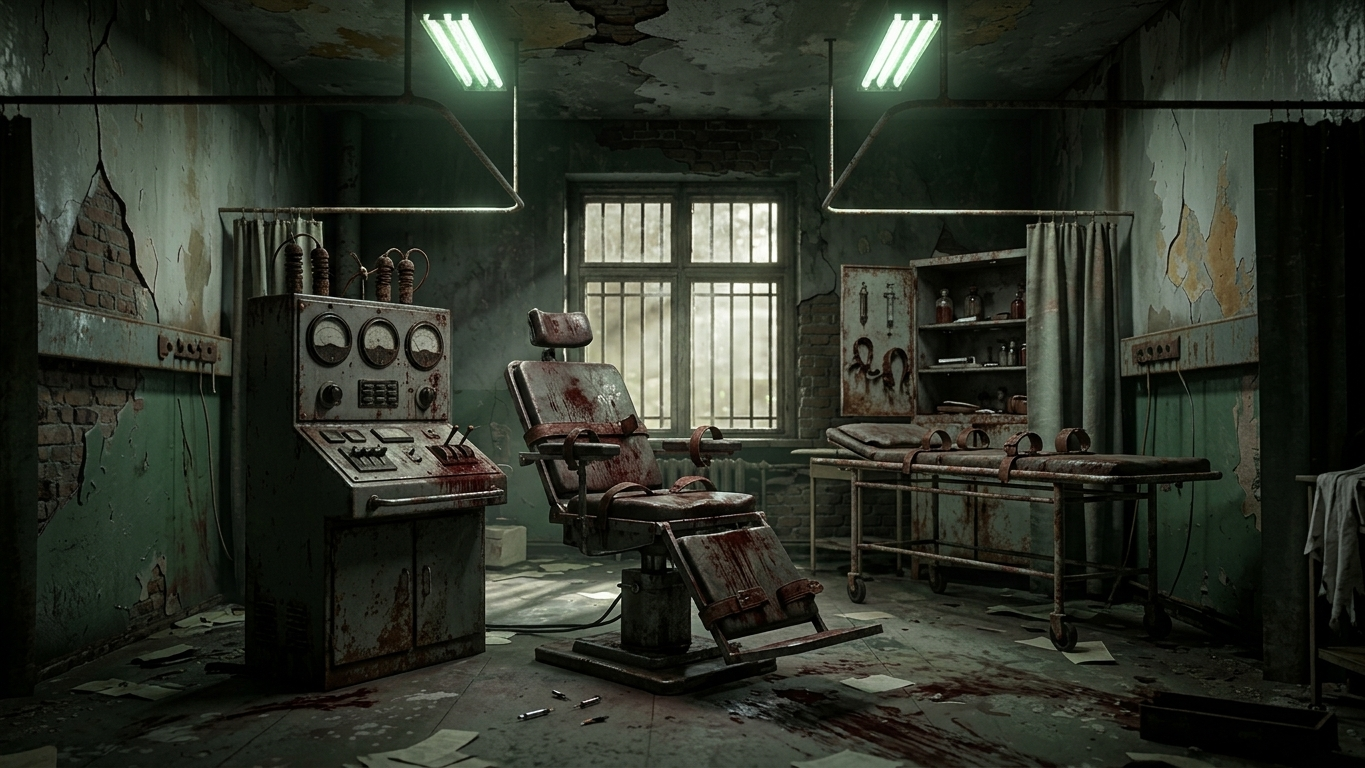
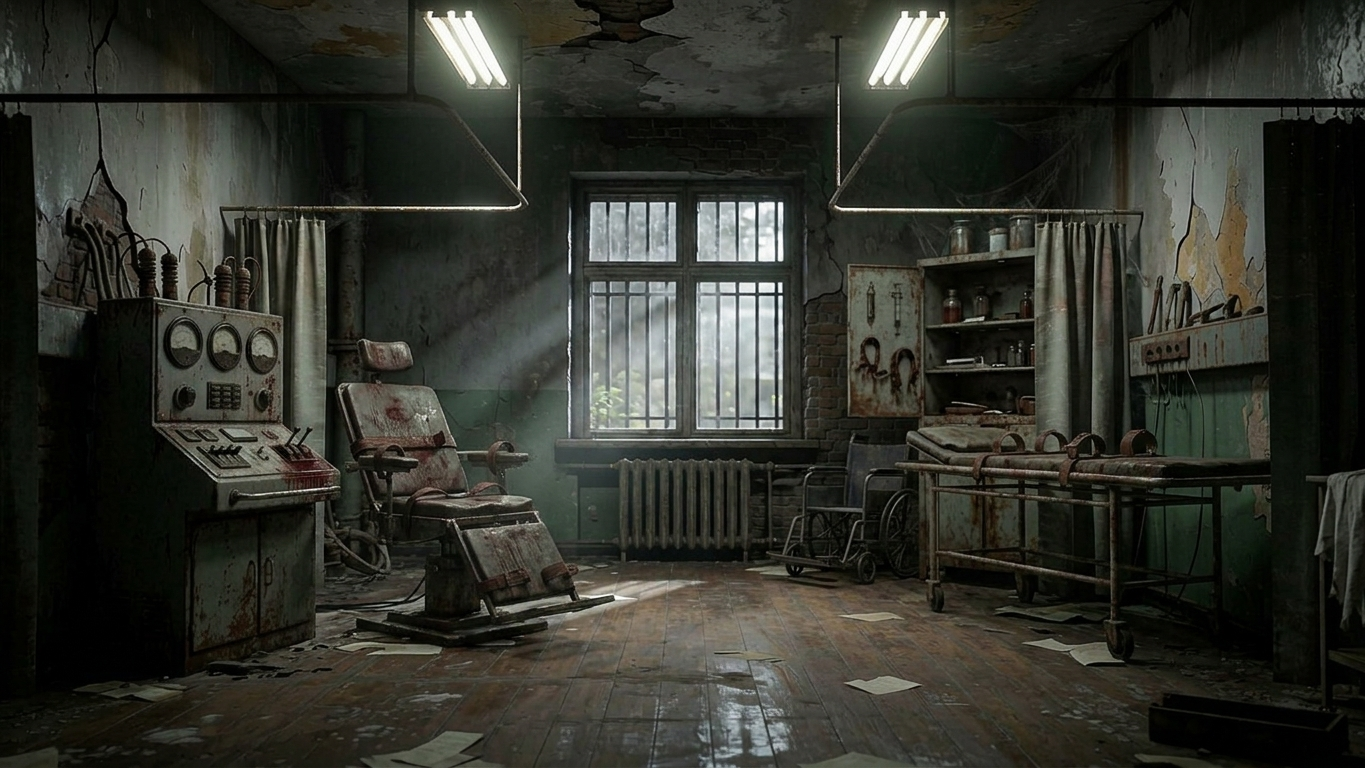
Add files via upload

diff --git a/index.html b/index.html
@@ -466,31 +466,47 @@
 <!-- ПОВНОЕКРАННА БОЙОВА СЦЕНА -->
 <div id="nurse-battle-modal" class="modal-overlay hidden" style="position: fixed; top: 0; left: 0; width: 100vw; height: 100vh; background: #000; z-index: 10000; display: flex; flex-direction: column;">
     
-    <!-- АРЕНА БОЮ (Клік по ній тепер б'є боса) -->
+    <!-- АРЕНА БОЮ (Клік по ній б'є боса) -->
     <div id="battle-arena-screen" onclick="performPlayerAttack()" style="position: relative; width: 100%; height: 100%; background: url('nurse_bg.jpg') center/cover no-repeat; display: flex; justify-content: space-between; padding: 25px; box-sizing: border-box; cursor: pointer; user-select: none;">
         
-        <!-- ЗВЕРХУ ЗЛІВА: Інфо та аватар гравця -->
-        <div style="background: rgba(20, 15, 12, 0.9); border: 1px solid #4a382c; padding: 12px; border-radius: 8px; width: 240px; color: #fff; display: flex; gap: 10px; align-items: center; z-index: 5;" onclick="event.stopPropagation()">
-            <!-- Місце під твою аватарку/шари з головного меню -->
-            <div id="player-battle-avatar-box" style="width: 50px; height: 50px; background: #2a1f18; border: 1px solid #5c4033; border-radius: 4px; display: flex; align-items: center; justify-content: center; font-size: 24px; flex-shrink: 0; overflow: hidden;">
-                👤
-            </div>
-            <div style="flex-grow: 1;">
-                <div style="font-weight: bold; font-size: 13px; color: #e67e22; margin-bottom: 4px;" id="b-player-name">Пацієнт #404</div>
-                <div style="font-size: 11px; margin-bottom: 3px;">HP: <span id="b-player-hp">100/100</span></div>
-                <div style="background: #222; height: 6px; border-radius: 3px; overflow: hidden;">
-                    <div id="b-player-hpbar" style="background: #27ae60; width: 100%; height: 100%;"></div>
+        <!-- ВЕРХНІЙ ЛІВИЙ КУТОК: Панель гравця та стікери аптечок біля неї -->
+        <div style="display: flex; gap: 10px; align-items: flex-start; z-index: 5;" onclick="event.stopPropagation()">
+            <!-- Панель гравця -->
+            <div style="background: rgba(20, 15, 12, 0.9); border: 1px solid #4a382c; padding: 12px; border-radius: 8px; width: 220px; color: #fff; display: flex; gap: 10px; align-items: center;">
+                <div id="player-battle-avatar-box" style="width: 45px; height: 45px; background: #2a1f18; border: 1px solid #5c4033; border-radius: 4px; display: flex; align-items: center; justify-content: center; font-size: 22px; flex-shrink: 0; overflow: hidden;">
+                    👤
+                </div>
+                <div style="flex-grow: 1;">
+                    <div style="font-weight: bold; font-size: 13px; color: #e67e22; margin-bottom: 4px;" id="b-player-name">Пацієнт #404</div>
+                    <div style="font-size: 11px; margin-bottom: 3px;">HP: <span id="b-player-hp">100/100</span></div>
+                    <div style="background: #222; height: 6px; border-radius: 3px; overflow: hidden;">
+                        <div id="b-player-hpbar" style="background: #27ae60; width: 100%; height: 100%;"></div>
+                    </div>
                 </div>
             </div>
+
+            <!-- Стікери аптечок одразу біля панелі гравця -->
+            <div style="background: rgba(20, 15, 12, 0.9); border: 1px solid #3d2d22; padding: 6px; border-radius: 8px; display: flex; gap: 6px; align-items: center;">
+                <!-- Мала аптечка -->
+                <button id="medkit-btn-small" title="Мала аптечка (+20 HP)" class="btn-outfit" style="background: #2a1f18; border: 1px solid #5c4033; width: 38px; height: 38px; border-radius: 6px; font-size: 16px; cursor: pointer; position: relative;" onclick="useBattleMedkit('small')">
+                    💊
+                    <span id="medkit-count-small" style="position: absolute; bottom: 1px; right: 2px; font-size: 9px; background: #c0392b; color: #fff; padding: 1px 3px; border-radius: 3px;">0</span>
+                </button>
+                <!-- Велика аптечка -->
+                <button id="medkit-btn-big" title="Велика аптечка (+50 HP)" class="btn-outfit" style="background: #2a1f18; border: 1px solid #5c4033; width: 38px; height: 38px; border-radius: 6px; font-size: 16px; cursor: pointer; position: relative;" onclick="useBattleMedkit('big')">
+                    💉
+                    <span id="medkit-count-big" style="position: absolute; bottom: 1px; right: 2px; font-size: 9px; background: #c0392b; color: #fff; padding: 1px 3px; border-radius: 3px;">0</span>
+                </button>
+            </div>
         </div>
 
-        <!-- ПОСЕРЕДИНІ: Велика Медсестра (як персонаж у головному меню) -->
-        <div style="position: absolute; left: 50%; bottom: 40px; transform: translateX(-50%); text-align: center; pointer-events: none;">
-            <img src="nurse_sprite.png" alt="Медсестра" style="max-height: 600px; height: 75vh; object-fit: contain; filter: drop-shadow(0 0 15px rgba(192, 57, 43, 0.8));">
+       <!-- ПОСЕРЕДИНІ: Велика Медсестра (розмір як персонаж у головному меню, по центру кімнати) -->
+        <div style="position: absolute; left: 50%; bottom: 10px; transform: translateX(-50%); text-align: center; pointer-events: none; z-index: 2;">
+            <img src="nurse_sprite.png" alt="Медсестра" style="max-height: 750px; height: 82vh; width: auto; object-fit: contain; filter: drop-shadow(0 0 18px rgba(192, 57, 43, 0.85));">
         </div>
 
-        <!-- ЗВЕРХУ СПРАВА: Фотокартка та інфо Медсестри -->
-        <div style="background: rgba(20, 15, 12, 0.9); border: 1px solid #c0392b; padding: 12px; border-radius: 8px; width: 240px; color: #fff; display: flex; gap: 10px; align-items: center; z-index: 5;" onclick="event.stopPropagation()">
+        <!-- ВЕРХНІЙ ПРАВИЙ КУТОК: Фотокартка та інфо Медсестри -->
+        <div style="background: rgba(20, 15, 12, 0.9); border: 1px solid #c0392b; padding: 12px; border-radius: 8px; width: 220px; color: #fff; display: flex; gap: 10px; align-items: center; z-index: 5;" onclick="event.stopPropagation()">
             <div style="flex-grow: 1; text-align: right;">
                 <div style="font-weight: bold; font-size: 13px; color: #e74c3c; margin-bottom: 4px;">Сестра Клара</div>
                 <div style="font-size: 11px; margin-bottom: 3px;">HP: <span id="b-boss-hp">120/120</span></div>
@@ -498,32 +514,14 @@
                     <div id="b-boss-hpbar" style="background: #c0392b; width: 100%; height: 100%;"></div>
                 </div>
             </div>
-            <!-- Квадратна фотокартка боса праворуч -->
-            <div style="width: 50px; height: 50px; background: #2a1f18; border: 1px solid #c0392b; border-radius: 4px; display: flex; align-items: center; justify-content: center; font-size: 24px; flex-shrink: 0; overflow: hidden;">
+            <div style="width: 45px; height: 45px; background: #2a1f18; border: 1px solid #c0392b; border-radius: 4px; display: flex; align-items: center; justify-content: center; font-size: 22px; flex-shrink: 0; overflow: hidden;">
                 👩⚕
             </div>
         </div>
 
-        <!-- ЗЛІВА ПОСЕРЕДИНІ: Панель аптечок (тільки стікери з кількістю) -->
-        <div style="position: absolute; left: 25px; top: 45%; transform: translateY(-50%); background: rgba(20, 15, 12, 0.9); border: 1px solid #3d2d22; padding: 10px; border-radius: 8px; display: flex; flex-direction: column; gap: 8px; z-index: 5;" onclick="event.stopPropagation()">
-            <div style="font-size: 10px; color: #a3927d; text-align: center; margin-bottom: 2px;">🧪 АПТЕЧКИ</div>
-            
-            <!-- Мала аптечка (стікер) -->
-            <button id="medkit-btn-small" title="Мала аптечка (+20 HP)" class="btn-outfit" style="background: #2a1f18; border: 1px solid #5c4033; width: 45px; height: 45px; border-radius: 6px; font-size: 20px; cursor: pointer; position: relative;" onclick="useBattleMedkit('small')">
-                💊
-                <span id="medkit-count-small" style="position: absolute; bottom: 2px; right: 4px; font-size: 10px; background: #c0392b; color: #fff; padding: 1px 4px; border-radius: 3px;">0</span>
-            </button>
-
-            <!-- Велика аптечка (стікер) -->
-            <button id="medkit-btn-big" title="Велика аптечка (+50 HP)" class="btn-outfit" style="background: #2a1f18; border: 1px solid #5c4033; width: 45px; height: 45px; border-radius: 6px; font-size: 20px; cursor: pointer; position: relative;" onclick="useBattleMedkit('big')">
-                💉
-                <span id="medkit-count-big" style="position: absolute; bottom: 2px; right: 4px; font-size: 10px; background: #c0392b; color: #fff; padding: 1px 4px; border-radius: 3px;">0</span>
-            </button>
-        </div>
-
         <!-- ЗНИЗУ ПОСЕРЕДИНІ: Кнопка Втекти -->
-        <div style="position: absolute; bottom: 20px; left: 50%; transform: translateX(-50%); z-index: 5;" onclick="event.stopPropagation()">
-            <button class="btn-outfit" style="background: #7f8c8d; padding: 10px 30px; font-size: 13px; cursor: pointer; border-radius: 6px;" onclick="closeNurseBattle()">🏃 Втекти</button>
+        <div style="position: absolute; bottom: 25px; left: 50%; transform: translateX(-50%); z-index: 5;" onclick="event.stopPropagation()">
+            <button class="btn-outfit" style="background: #7f8c8d; padding: 8px 25px; font-size: 12px; cursor: pointer; border-radius: 6px;" onclick="closeNurseBattle()">🏃 Втекти</button>
         </div>
 
     </div>
